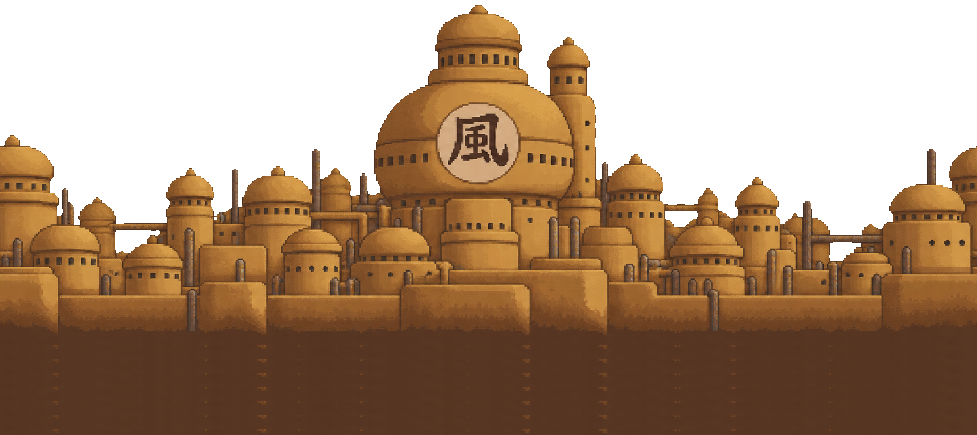
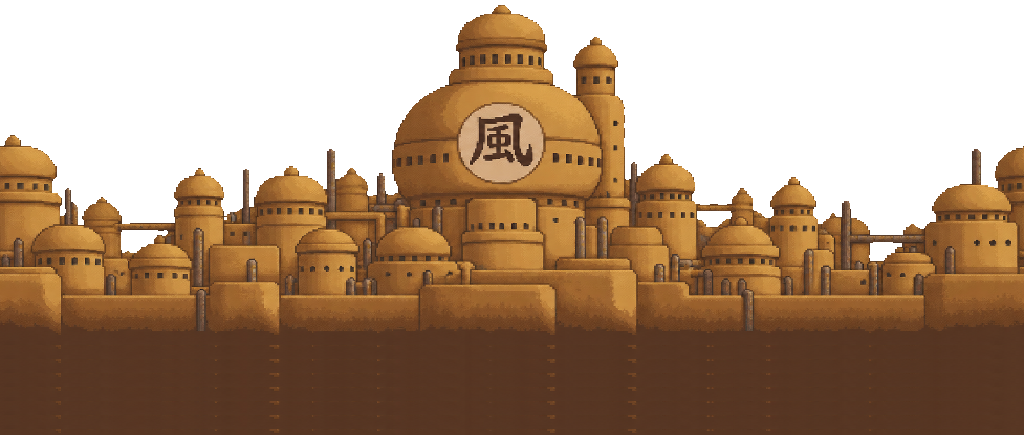
Suna middle layer back to 1024 wide: the seamless span stretched, not cropped (a narrower layer leaves a gap between copies); test that every region layer is 1024 wide

Changed region(s): [[0.4913, 0.3287, 0.522, 0.3586], [0.2149, 0.4782, 0.2456, 0.508]]

diff --git a/tests/BackgroundRules/BackgroundRulesTests.cs b/tests/BackgroundRules/BackgroundRulesTests.cs
@@ -45,3 +45,16 @@ Check(matches, "With vanilla's ground row, the corrected close layer lands exact
 Check(Math.Abs(CloseOffset(1080, 450, VanillaCloseGroundRow + 60) - CloseOffset(1080, 450, VanillaCloseGroundRow) + 60 * CloseDrawScale) < 0.01,
     "Art whose ground starts lower is lifted by the difference, at draw scale");
 Check(CloseOffset(1080, 450, -1) == CloseOffset(1080, 450, VanillaCloseGroundRow), "Art without solid ground is not lifted");
+
+// tModLoader lays a surface style's far and middle layers side by side every 1024 pixels (at its scale) whatever the
+// texture's width: a narrower layer leaves a gap between copies (user, 2026-10-01: the Suna village had a slit of
+// canyon showing through after its middle layer was cropped to 977). Every region layer must be 1024 wide.
+string backgrounds = Path.Combine(AppContext.BaseDirectory, "..", "..", "..", "..", "..", "ShinobiPrototype", "Backgrounds");
+foreach (string png in Directory.GetFiles(backgrounds, "*.png"))
+{
+    byte[] header = new byte[24];
+    using (FileStream stream = File.OpenRead(png))
+        stream.ReadExactly(header);
+    int width = header[16] << 24 | header[17] << 16 | header[18] << 8 | header[19];
+    Check(width == 1024, $"{Path.GetFileName(png)} is 1024 pixels wide");
+}
